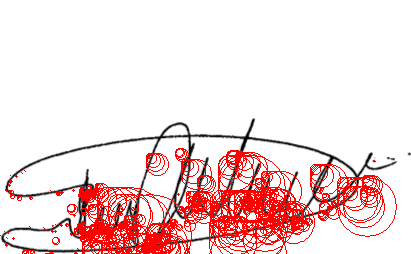
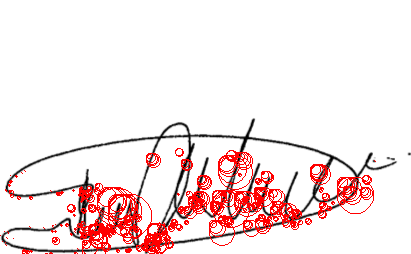
generating features

diff --git a/src/main/java/org/smurn/jsift/KeypointsGenerator.java b/src/main/java/org/smurn/jsift/KeypointsGenerator.java
@@ -5,7 +5,7 @@ import java.util.Arrays;
 import java.util.Collection;
 import java.util.List;
 
-public class KeypointOrientation {
+public class KeypointsGenerator {
 	public static List<Keypoint> calculate(Collection<ScaleSpacePoint> scaleSpacePoints, Octave octave) throws Exception {
 		if(scaleSpacePoints == null || scaleSpacePoints.isEmpty())
 			throw new Exception("keypoints cannot be null or empty");
@@ -25,10 +25,14 @@ public class KeypointOrientation {
 				theta = new double[rowMax-rowMin+1][colMax-colMin+1];
 				hist = new double[36];
 				Arrays.fill(hist, 0.0);
-				int r=0,c;
+				int r=0,c,rC=0,cC=0;
 				for(int row = rowMin; row < rowMax; row++) {
 					c = 0;
 					for(int col = colMin; col < colMax; col++) {
+						if(row == (int)keypoint.getX() && col == (int)keypoint.getY()) {
+							rC = r;
+							cC = c;
+						}
 						mag[r][c] = 
 									(row+1 < image.getHeight() && row-1 > -1 && col+1 < image.getWidth() && col-1 > -1) 
 								? 
@@ -51,28 +55,8 @@ public class KeypointOrientation {
 					}
 					r++;
 				}
-				List<Keypoint> keypointList = generateKeyPointOrientation(hist, keypoint);
-				
-				//descriptor
-				r=0;
-				for(int row = 0; row < 16; row++) {
-					c = 0;
-					for(int col = 0; col < 16; col++) {
-						mag[r][c];
-						theta[r][c];
-						hist[ radianToBin(theta[r][c]) ] +=
-								(row < image.getHeight() && row > 0 && col < image.getWidth() && col > 0) 
-								? 
-									image.getPixel(row, col) * mag[r][c] * gaussianCircularWeight(r, c, keypoint.getSigma()*1.5)
-								:
-									0.0;
-						c++;
-					}
-					r++;
-				}
-				
-				
-				keypoints.addAll(generateKeyPointOrientation(hist, keypoint));
+				List<Keypoint> kps = generateKeyPointDescriptor(hist, keypoint, mag, theta, cC, rC);
+				keypoints.addAll(kps);
 			}
 		}
 		return keypoints;
@@ -81,15 +65,15 @@ public class KeypointOrientation {
 	/*
 	 * source https://stackoverflow.com/questions/39891223/how-to-calculate-gaussian-weighted-circular-window
 	 */
-	private static double gaussianCircularWeight(int i, int j, double sigma) {
+	public static double gaussianCircularWeight(int i, int j, double sigma) {
 	    return 1 / (2 * Math.PI) * Math.exp(-0.5 * (i * i + j * j) / sigma / sigma);
 	}
 	
 	private static int radianToBin(double radian) {
-		return (int)((Math.toDegrees(Math.atan(-10/5)) + 360) % 360)/10;
+		return (int)((Math.toDegrees(radian) + 360) % 360)/10;
 	}
 	
-	private static List<Keypoint> generateKeyPointOrientation(double[] histogram, ScaleSpacePoint point){
+	private static List<Keypoint> generateKeyPointDescriptor(double[] histogram, ScaleSpacePoint point, double[][] mag, double[][] theta, int cC, int rC){
 		List<Keypoint> keypoints = new ArrayList<Keypoint>();
 		double max = 0, max80 = 0;
 		int orientation=0, orientation80=0;
@@ -105,10 +89,14 @@ public class KeypointOrientation {
 				orientation80 = i+1;
 			}
 		}
-		if(orientation > 0 && max > 0)
-			keypoints.add(new Keypoint(point, max, orientation));
-		if(orientation80 > 0 && max80 > 0)
-			keypoints.add(new Keypoint(point, max80, orientation80));
+		if(orientation > 0 && max > 0) {
+			double[] desc = DescriptorGenerator.generate(orientation, mag, theta, cC, rC);
+			keypoints.add(new Keypoint(point, max, orientation, desc));
+		}
+		if(orientation80 > 0 && max80 > 0) {
+			double[] desc80 = DescriptorGenerator.generate(orientation80, mag, theta, cC, rC);
+			keypoints.add(new Keypoint(point, max80, orientation80, desc80));
+		}
 		
 		return keypoints;
 	}

diff --git a/src/main/java/org/smurn/jsift/DescriptorGenerator.java b/src/main/java/org/smurn/jsift/DescriptorGenerator.java
@@ -1,0 +1,52 @@
+package org.smurn.jsift;
+
+import java.util.Arrays;
+
+public class DescriptorGenerator {
+	public static double[] generate(int keypointDirection, double[][] mag, double[][] theta, int centerX, int centerY) {
+		//descriptor
+		double[] desc = new double[128];
+		Arrays.fill(desc, 0.0);
+		int offset = 0, c, r=-1;
+		for(int row = centerY - 7; row < centerY+8; row++) {
+			r++;
+			c=-1;
+			if(! (row > 0 && row < mag.length)) {
+				continue;
+			}
+			for(int col = centerX-7; col < centerX+8; col++) {
+				c++;
+				if(! (col > 0 && col < mag[0].length) || mag[row][col] == 0) {
+					continue;
+				}
+				if( !(c > 0 && c < 16 && r > 0 && r < 16) ) {
+					continue;
+				}
+				offset = (4*(r/4))*8 + (c/4)*8;
+				desc[offset + radianToBin(theta[row][col], keypointDirection)] += mag[row][col] * KeypointsGenerator.gaussianCircularWeight(r, c, 4.0);
+				if(desc[offset + radianToBin(theta[row][col], keypointDirection)] > 0.2)
+					desc[offset + radianToBin(theta[row][col], keypointDirection)] = 0.2;					
+			}
+		}			
+		normalize(desc);		
+		return desc;
+	}
+	
+	private static int radianToBin(double radian, int keypointDirection) {
+		int dif = (int) (((Math.toDegrees(radian) + 360) % 360) - keypointDirection*10);
+		if(dif < 0)
+			dif = 360 + dif;
+		return dif/45;
+	}
+	
+	private static void normalize(double[] toNormalize) {
+		double[] _toNormalize = new double[toNormalize.length];
+		System.arraycopy( toNormalize, 0, _toNormalize, 0, toNormalize.length );
+		
+		Arrays.sort(_toNormalize);
+		
+		for(int d = 0; d<toNormalize.length; d++) {
+			toNormalize[d] = (toNormalize[d]-_toNormalize[0])/(_toNormalize[_toNormalize.length-1]-_toNormalize[0]);
+		}
+	}
+}

diff --git a/src/main/java/org/smurn/jsift/Keypoint.java b/src/main/java/org/smurn/jsift/Keypoint.java
@@ -4,11 +4,13 @@ public class Keypoint {
 	ScaleSpacePoint point;
 	double magnitude;
 	int direction;
+	double[] descriptor;
 	
-	public Keypoint(ScaleSpacePoint point, double magnitude, int direction) {
+	public Keypoint(ScaleSpacePoint point, double magnitude, int direction, double[] descriptor) {
 		this.point = point;
 		this.magnitude = magnitude;
 		this.direction = direction;
+		this.descriptor = descriptor;
 	}
 
 	public ScaleSpacePoint getPoint() {
@@ -33,5 +35,13 @@ public class Keypoint {
 
 	public void setDirection(int direction) {
 		this.direction = direction;
+	}
+
+	public double[] getDescriptor() {
+		return descriptor;
+	}
+
+	public void setDescriptor(double[] descriptor) {
+		this.descriptor = descriptor;
 	}
 }

diff --git a/src/test/java/org/smurn/jsift/ImageTest.java b/src/test/java/org/smurn/jsift/ImageTest.java
@@ -47,7 +47,7 @@ public class ImageTest {
 			//
 			ExtremaDetector extremaDetector = new ExtremaDetector();
 			Collection<ScaleSpacePoint> pointsBase = extremaDetector.detectKeypoints(ssBase);
-			List<Keypoint> keypoints = KeypointOrientation.calculate(pointsBase, ssBase.getOctaves().get(1));
+			List<Keypoint> keypoints = KeypointsGenerator.calculate(pointsBase, ssBase.getOctaves().get(1));
 			// for (ScaleSpacePoint pointBase : pointsBase) {
 			// System.out.println("("+pointBase.getX()+","+pointBase.getY()+","+pointBase.getSigma()+")");
 			// }
